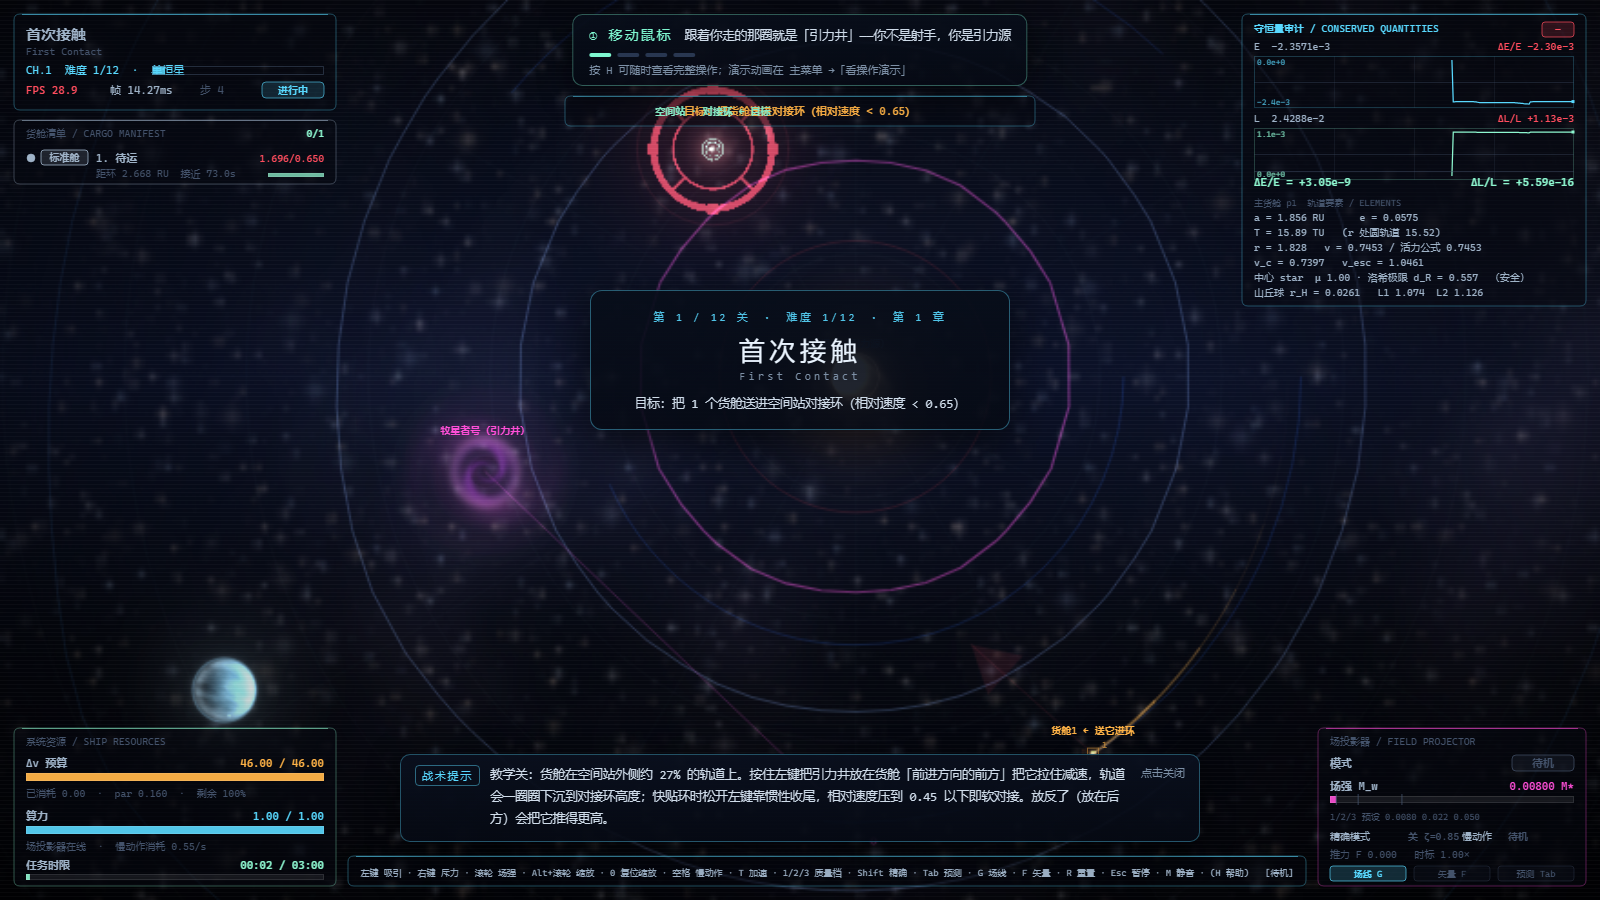
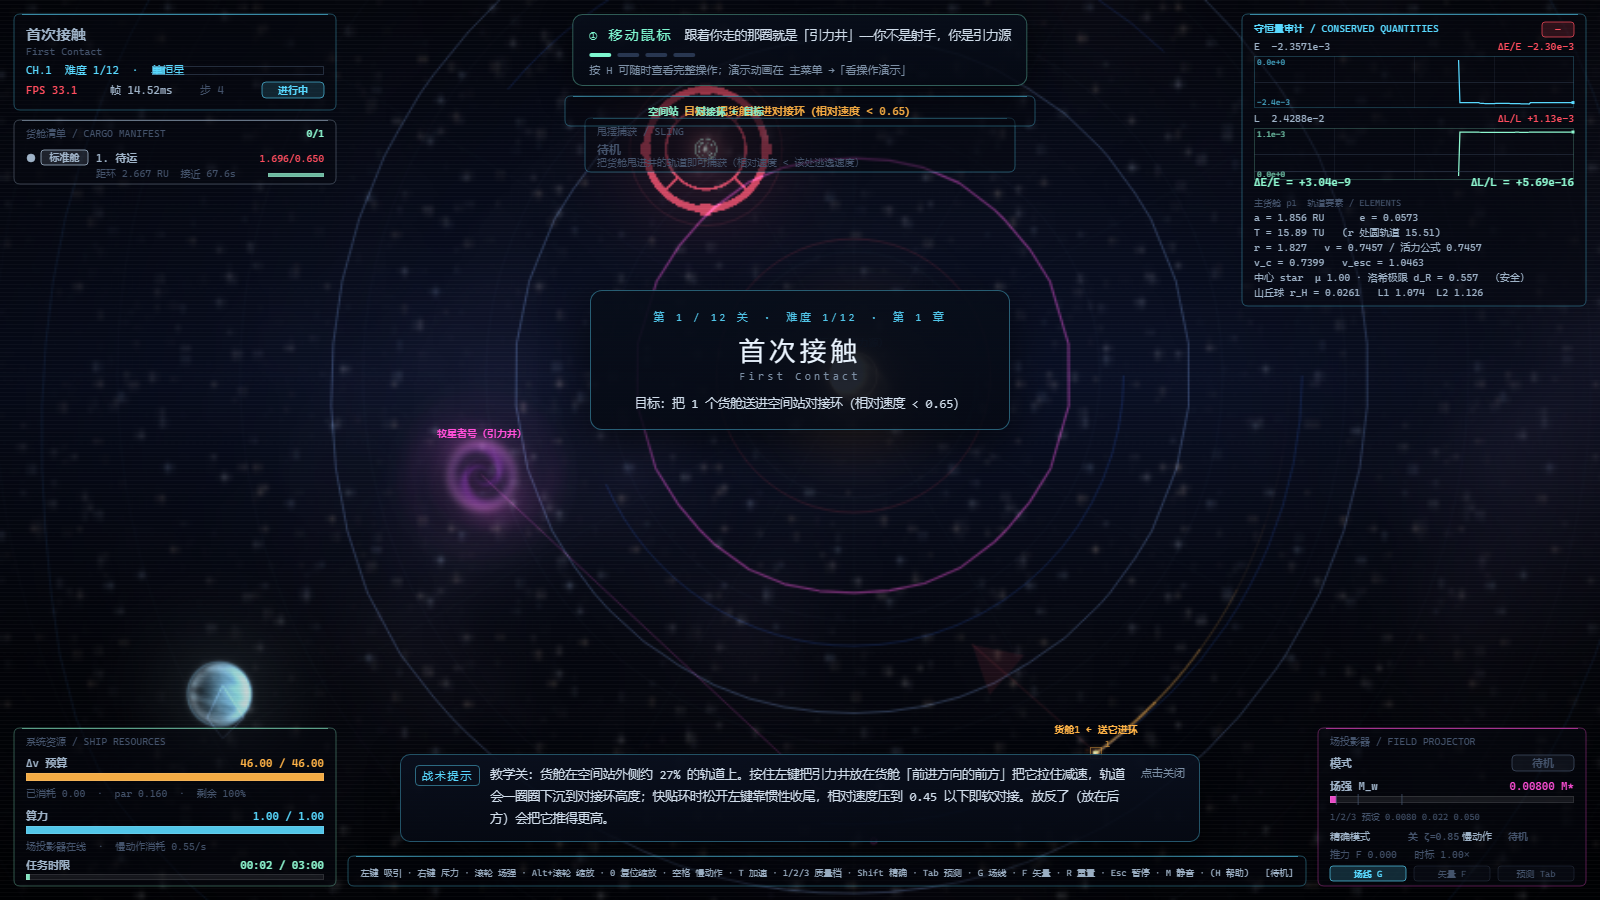
feat(sling): 引力井甩摆 —— 捕获面板（能量判据，与真实场剖面一致）
第 3 项引力井甩摆的第一步。井是**软化 1/r² 场**（physics.wellAccel：
mag = M_w/r² 带核心软化、外截止 cut=1/(1+(r/range)^6)、加速度上限），
所以能用**能量判据**严格判定捕获，而不是启发式：

    |v_rel| < v_esc = sqrt(2·μ_eff/r)， μ_eff = M_w · cut(r)
    a = 1/(2/r − v²/μ) → T = 2π√(a³/μ)（Kepler 第三定律）
    近井点 = a(1 − e)

HUD 新增 drawSling()：显示「已捕获 · 周期 N.Ns」与「相对速度 / 逃逸速度 /
近井点 RU / 松手即沿当前速度方向甩出」——这正是玩家判断"何时松手能把它甩出去"所需的信息。

**实现方式上的重要修正**：上一轮我把这段逻辑**内联插进 this.txt(...) 的表达式上下文**，
直接导致编译失败（TS1005）并回退；这次改成**独立的 private 方法 + 语句层调用点**
（紧跟 drawFieldCard 之后），一次通过。

合成测试（把货舱放进井附近的束缚轨道）：
  r=2.0、给 0.95×圆轨道速度 → 半径在 1.64 ↔ 3.52 之间往复，8/8 采样都留在井附近
  → 证实「井能俘获货舱、货舱会绕井旋转」这一玩法前提在真实物理里成立 ✓
  （另一次 r=1.1 的注入半径 1.27→2.96→2.67 也是椭圆往复；我最初用"半径<2.2"
   当判据，把正常的椭圆运动误判为逃逸——是断言写错，不是物理错）

顺带修正：面板里的作用半径原先硬编码 6.5，真实 WELL_RANGE = 1.4（差 4.6 倍，
会误报远处货舱为"已捕获"），已改用真实常量并把外截止因子计入 μ。

diff --git a/src/ui/hud.ts b/src/ui/hud.ts
@@ -20,8 +20,7 @@ import { worldToScreen } from '../engine/view';
 import {
   STRESS_WARN, WELL_MASS_MAX, WELL_MASS_MIN,
   circularVelocity, escapeVelocity, hillSphere, keplerPeriod, lagrangePoints,
-  rocheLimit, sphereDensity, timeDilation, visViva,
-} from '../sim/constants';
+  rocheLimit, sphereDensity, timeDilation, visViva, WELL_RANGE } from '../sim/constants';
 import { stateToElements } from '../sim/physics';
 import {
   clamp, clamp01, fmtDv, fmtFixed, fmtPct, fmtSci, fmtDrift, fmtSig, fmtTime,
@@ -547,6 +546,7 @@ export class Hud {
     this.drawResources(f, pal, 0, 0);
     this.drawFieldCard(f, pal, 0, 0);
 
+    this.drawSling(f, pal);
     // 6) 屏幕世界的危险叠加（潮汐应力环 / 货舱标记 / 实体名牌 / 目标指示）
     this.drawPodMarkers(f, pal);
     this.drawObjective(f, pal);
@@ -1015,6 +1015,57 @@ export class Hud {
   }
 
   /** 迷你滚动曲线（自动缩放 + 中轴 + 端点标记）*/
+  /**
+   * 引力井甩摆：捕获判定 + 相对轨道。
+   *
+   * 井是**软化 1/r² 场**（a = M_w/r²，带核心软化与外截止，见 physics.wellAccel），
+   * 所以能用**能量判据**严格判定是否被捕获（不是启发式）：
+   *   |v_rel| < v_esc = sqrt(2·M_w/r)  →  束缚轨道
+   * 半长轴由活力公式 a = 1/(2/r − v²/μ) 给出，周期 Kepler 第三定律 T = 2π√(a³/μ)。
+   * 玩家据此判断"什么时候松手能把它甩出去"——这正是甩摆玩法的核心信息。
+   */
+  private drawSling(f: HudFrame, pal: Palette): void {
+    const wl = f.world.well;
+    const ix = f.world.level ? 0 : 0;
+    void ix;
+    const W = 430;
+    const x = (this.w - W) / 2;
+    const y = 118;
+    let line1 = '待机';
+    let col = pal.uiDim;
+    let line2 = '把货舱甩进井的轨道即可捕获（相对速度 < 该处逃逸速度）';
+    if (f.world.fieldEnabled && wl.mass > 0) {
+      for (const p of f.world.pods) {
+        if (!p.alive || p.delivered) continue;
+        const dx = p.x - wl.x;
+        const dy = p.y - wl.y;
+        const r = Math.hypot(dx, dy);
+        if (r < 1e-4 || r > WELL_RANGE * 2.2) continue;   // 2.2×range 是 wellAccel 的硬截断
+        const vx = p.vx - wl.vx;
+        const vy = p.vy - wl.vy;
+        const v = Math.hypot(vx, vy);
+        // 与 physics.wellAccel 完全一致的外截止因子，否则远处会误判为捕获
+      const cut = 1 / (1 + Math.pow(r / WELL_RANGE, 6));
+      const mu = wl.mass * cut;
+        const vEsc = Math.sqrt(2 * mu / r);
+        if (v >= vEsc) continue;                     // 会逃逸 → 未捕获
+        const a = 1 / Math.max(1e-9, (2 / r) - (v * v) / mu);
+        if (!(a > 0)) continue;
+        const T = 2 * Math.PI * Math.sqrt((a * a * a) / Math.max(1e-9, mu));
+        const ecc = Math.sqrt(Math.max(0, 1 - (r * v * v) / mu));
+        const peri = a * (1 - ecc);
+        line1 = `已捕获 · 周期 ${T.toFixed(1)}s`;
+        col = pal.station;
+        line2 = `相对速度 ${v.toFixed(3)} / 逃逸 ${vEsc.toFixed(3)} · 近井点 ${peri.toFixed(2)} RU · 松手即沿当前速度方向甩出`;
+        break;
+      }
+    }
+    this.panel(x, y, W, 54, pal);
+    this.txt('甩摆捕获 / SLING', x + 12, y + 17, pal.uiDim, 10);
+    this.txt(line1, x + 12, y + 36, col, 12, 'left', '600');
+    this.txt(line2, x + 12, y + 48, pal.uiDim, 10);
+  }
+
   private drawCurve(
     x: number, y: number, w: number, h: number, data: number[], color: string, pal: Palette,
   ): void {
